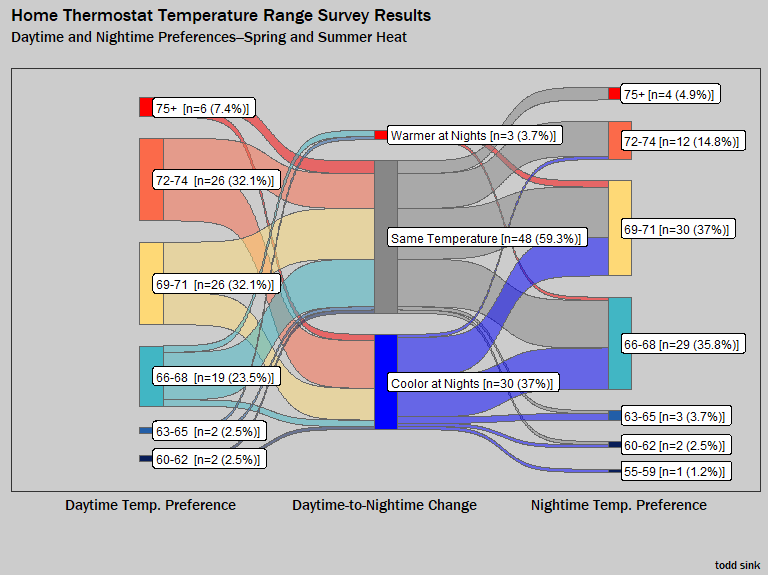
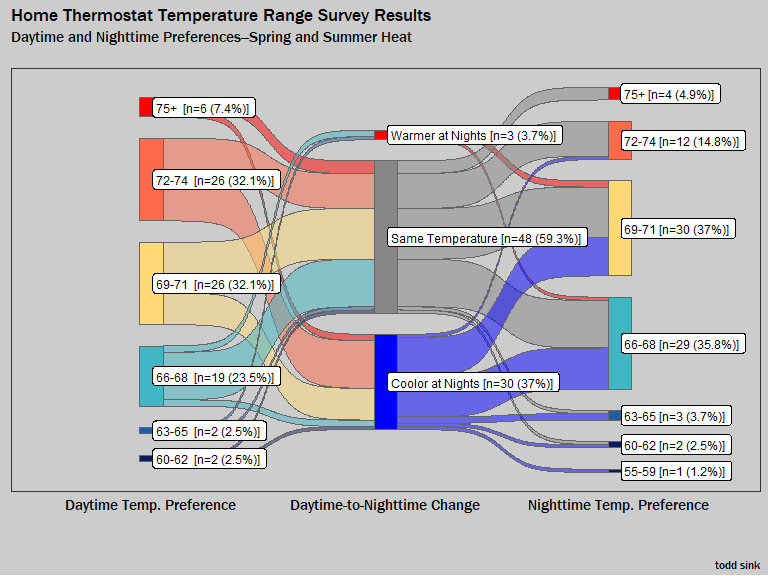
fixed nighttime spelling

Changed region(s): [[0.1562, 0.0312, 0.5312, 0.0938], [0.375, 0.8438, 0.625, 0.9062], [0.6875, 0.8438, 0.9375, 0.9062]]

diff --git a/README.md b/README.md
@@ -10,8 +10,8 @@ questions regarding the heat of Spring and Summer:
 1.  What is the ideal **DAYTIME** thermostat temperature range (degrees
     Fahrenheit) for your home?
 
-2.  What is the ideal **NIGHTIME** thermostat temperature range (degrees
-    Fahrenheit) for your home?
+2.  What is the ideal **NIGHTTIME** thermostat temperature range
+    (degrees Fahrenheit) for your home?
 
 A total of 81 responses were received.
 
@@ -26,13 +26,13 @@ selections made for the preferred **DAYTIME** temperature range. The
 labels display the option and the number and percentage of people who
 made the choice.
 
-**Daytime-to-Nightime Change** The center of the graph shows the change,
-if any, that was made between preferred daytime and nightime temperature
-ranges. The size of the bars are proportional to the number of
-responses.
+**Daytime-to-Nighttime Change** The center of the graph shows the
+change, if any, that was made between preferred daytime and nighttime
+temperature ranges. The size of the bars are proportional to the number
+of responses.
 
-**Nightime Temp. Preference** The right side of the graph shows the
-selections made for the preferred **NIGHTIME** temperature range. The
+**Nighttime Temp. Preference** The right side of the graph shows the
+selections made for the preferred **NIGHTTIME** temperature range. The
 labels display the option and the number and percentage of people who
 made the choice.
 
@@ -47,13 +47,13 @@ by 23.5% of the respondents. The remaining preferences are as follows:
 -   63-65 (2.5%)
 -   60-62 (2.5%)
 
-**Daytime/Nightime Change:** The majority of respondents, 59.3%, prefer
-to leave the thermostat setting the same for the daytime and nightime.
+**Daytime/Nighttime Change:** The majority of respondents, 59.3%, prefer
+to leave the thermostat setting the same for the daytime and nighttime.
 Approximately 37% prefer the home temperature to be cooler at nights and
 3.7% prefer it to be warmer at nights.
 
-**Nightime:** There is a near tie for the most preferred temperature
-range during the nightime. The temperature range 69-71 is the most
+**Nighttime:** There is a near tie for the most preferred temperature
+range during the nighttime. The temperature range 69-71 is the most
 preferred with 37% of responses. The temperature range 66-68 is a close
 second with 35.8% of responses. The remaining preferences are as
 follows:
